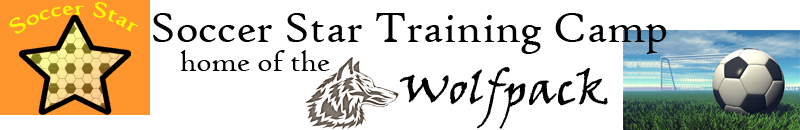
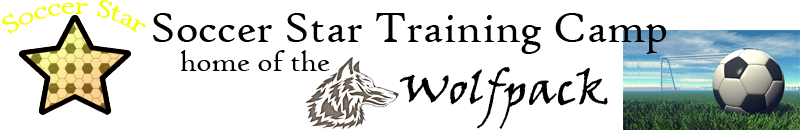
worked on contact page & added random pics

Changed region(s): [[0.0, 0.0, 0.1875, 0.8923]]

diff --git a/app/assets/stylesheets/custom.css b/app/assets/stylesheets/custom.css
@@ -2,7 +2,7 @@
 	background-color: #000000;
 }
 #banner {
-	background-color: #FF962D;
+	background-color: #FF7700;
 	width: 800px;
 	height: 130px;
 	background-image: url(banner.png);
@@ -10,7 +10,7 @@
 }
 #member {
 	padding: 2px 0px 0px 700px;
-	background-color: #0000FF;
+	background-color: #FF7700;
 	width: 100px;
 	height: 18px;
 	font-size: 13px;
@@ -20,10 +20,10 @@
 	position: relative;
 	width: 700px;
 	height: 30px;
-	background-color: #00FF00;
+	background-color: #FF7700;
 }
 #sideLeft {
-	background-color: #00FFFF;
+	background-color: #FF962D;
 	width: 150px;
 	height: 500px;
 }
@@ -35,7 +35,7 @@
 	left:150px;
 	right:0px;
 	bottom:0px;
-	background-color: #FF0000;
+	background-color: #FF962D;
 	
 }
 #sideRight {
@@ -46,14 +46,14 @@
 	left:600px;
 	right:0px;
 	bottom:0px;
-	background-color: #FFFF00;	
+	background-color: #FF962D;	
 }
 #footer {
 	position: relative;
 	padding: 6px 0px 0px 20px;
 	width: 780px;
 	height: 20px;
-	background-color: #FF99FF;
+	background-color: #FF962D;
 	font-size: 11px;
 }
 #centerContain {

diff --git a/app/controllers/pages_controller.rb b/app/controllers/pages_controller.rb
@@ -1,14 +1,23 @@
 class PagesController < ApplicationController
   def home
     @title = "Home"
+    @images  = ["player.png", "player1.png", "player2.png", "player3.png", "player4.png", "player5.png"]
+    @random_no = rand(6)
+    @random_image = @images[@random_no]
   end
 
   def registration
     @title = "Registration"
+    @images  = ["player.png", "player1.png", "player2.png", "player3.png", "player4.png", "player5.png"]
+    @random_no = rand(6)
+    @random_image = @images[@random_no]
   end
 
   def contact
     @title = "Contact"
+    @images  = ["player.png", "player1.png", "player2.png", "player3.png", "player4.png", "player5.png"]
+    @random_no = rand(6)
+    @random_image = @images[@random_no]
   end
 
 end
